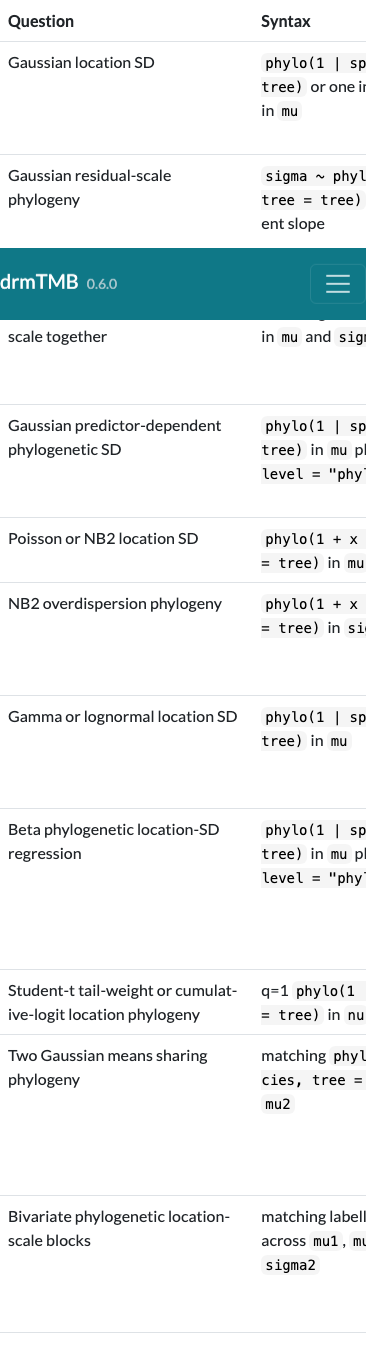
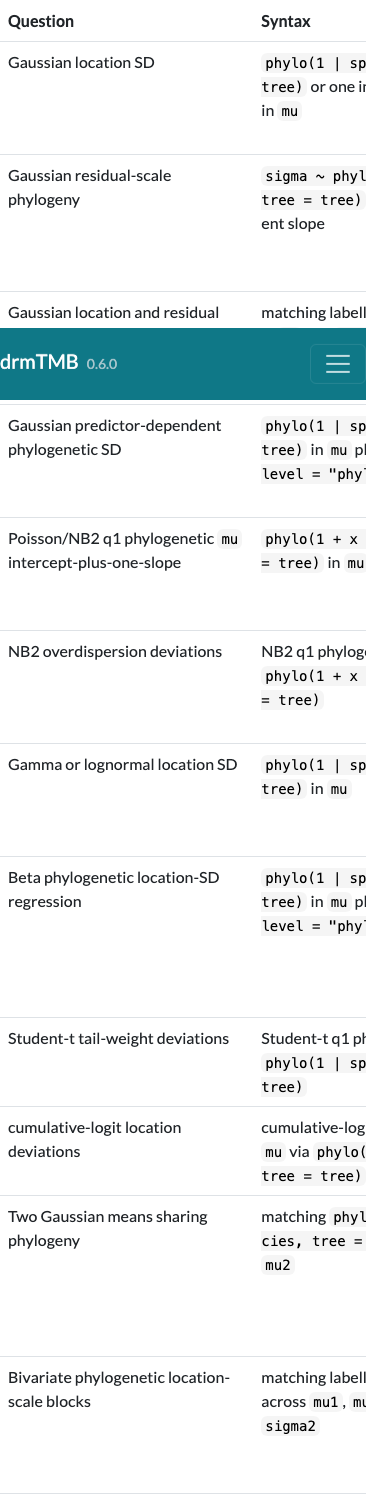
docs: preserve phylogenetic gate names

diff --git a/docs/dev-log/after-task/2026-07-21-phylogenetic-confidence-eye-followup.md b/docs/dev-log/after-task/2026-07-21-phylogenetic-confidence-eye-followup.md
@@ -48,6 +48,7 @@ horizontal scrolling preserves precise boundaries on mobile.
   to merge commit `50e56b1a` before this change.
 - `python3 tools/capability_ledger.py --check`: PASS; 30 generated outputs are
   synchronized.
+- `python3 -m unittest tools/tests/test_capability_ledger.py`: PASS, 37 tests.
 - `pkgdown::build_article("phylogenetic-models", new_process = FALSE)`: PASS.
 - Desktop and 390-pixel headless-browser inspection: PASS for the Confidence
   Eye; the table reports a 366-pixel viewport and 760-pixel scroll width.
@@ -88,7 +89,10 @@ article moves from a constant phylogenetic SD to an SD regression.
 The first browser run was sandbox-blocked by macOS Mach-port permissions and
 was rerun with approved local-only access. The first mobile render showed the
 expanded table compressing three dense columns and breaking technical words;
-the responsive scroll container was added and rechecked.
+the responsive scroll container was added and rechecked. The first CI run then
+caught two exact-phrase capability guards removed during the table rewrite.
+The guarded canonical gate names were restored in the reader-facing rows, and
+the full 37-test ledger unit suite was added to the local pre-push checks.
 
 ## 10. Known Residuals
 